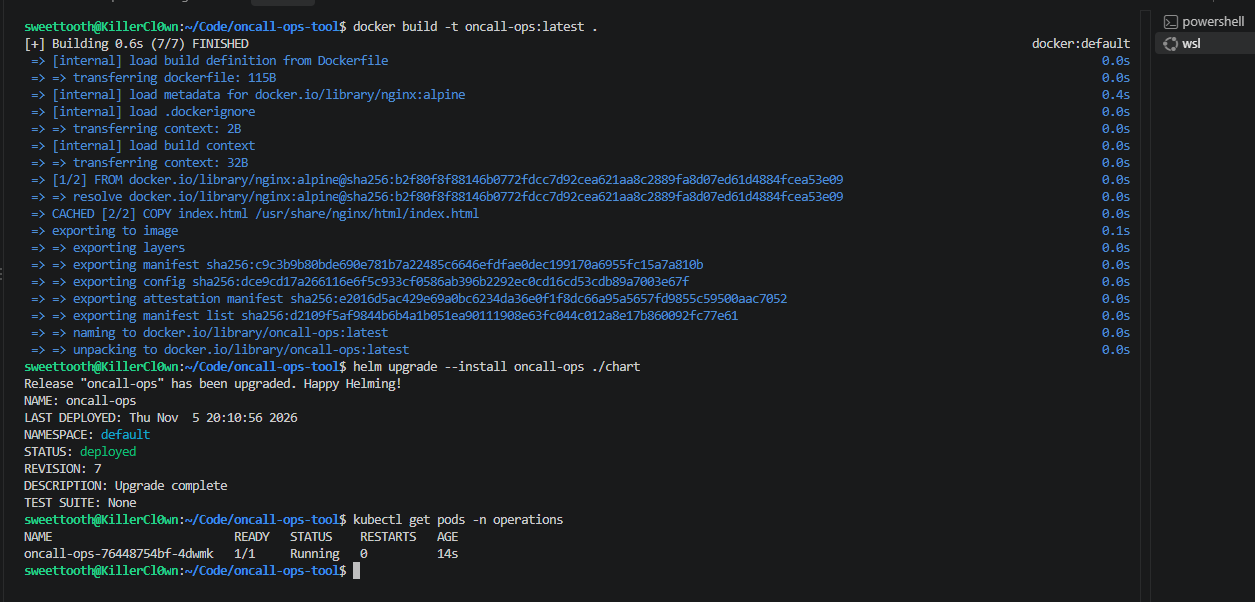
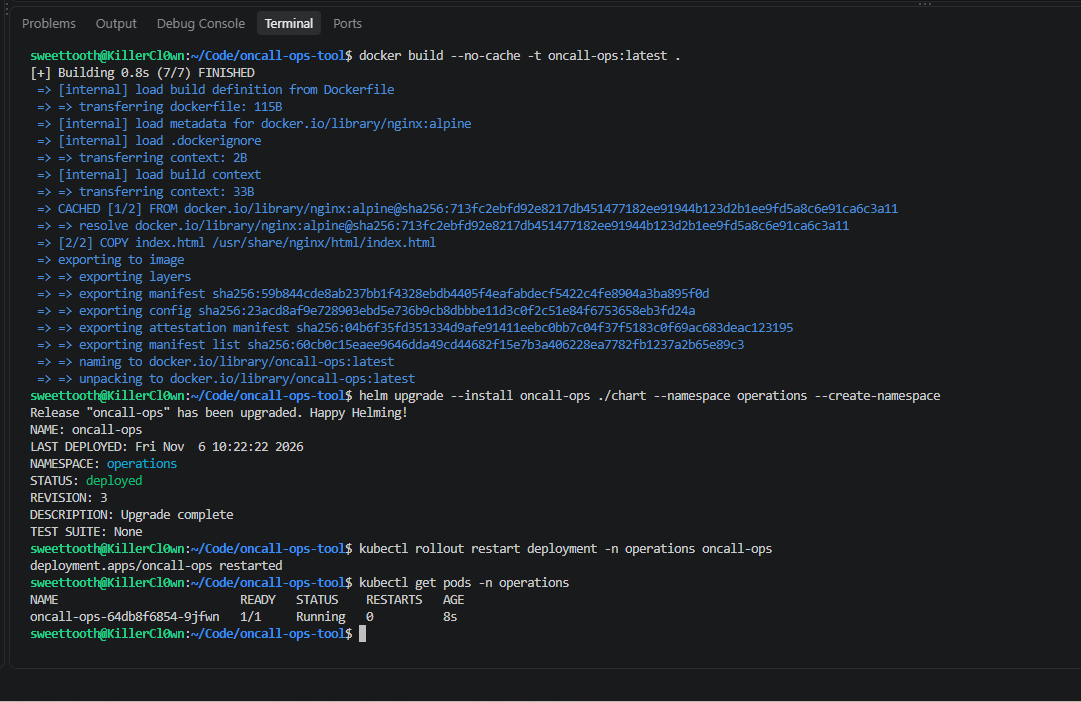
fix diagram

Changed region(s): [[0.0, 0.0299, 1.0, 0.9568], [0.0, 0.9867, 1.0, 1.0]]

diff --git a/README.md b/README.md
@@ -9,7 +9,7 @@ An enterprise-grade, zero-dependency AI On-Call Operations & Automated Incident 
 ```text
 oncall-ops-poc/
 ├── docs/                   # Helm chart deployment package
-│   ├── demo.mp4            # Demo video of installation and navigation
+│   ├── demo.mp4            # Demo video of installation and navigation - Download as RAW file since GH only supports up to 50MB
 │   └── screenshots/
 │       ├── 1-cluster-deployment.png            # Image of container build, deployment and pod running   
 │       ├── 2-dashboard-OC.png                  # Image of the OC rotation

diff --git a/Architecture.md b/Architecture.md
@@ -9,7 +9,7 @@ graph TD
 
     subgraph Kubernetes Cluster / Azure AKS
         NS[Namespace: operations]
-        ING[Service / Ingress: NodePort 30080 or AKS LoadBalancer (Preferred)]
+        ING[Service / Ingress: NodePort 30080 or AKS LoadBalancer - Preferred]
         POD[Nginx Pod / On-Call App]
     end
 
